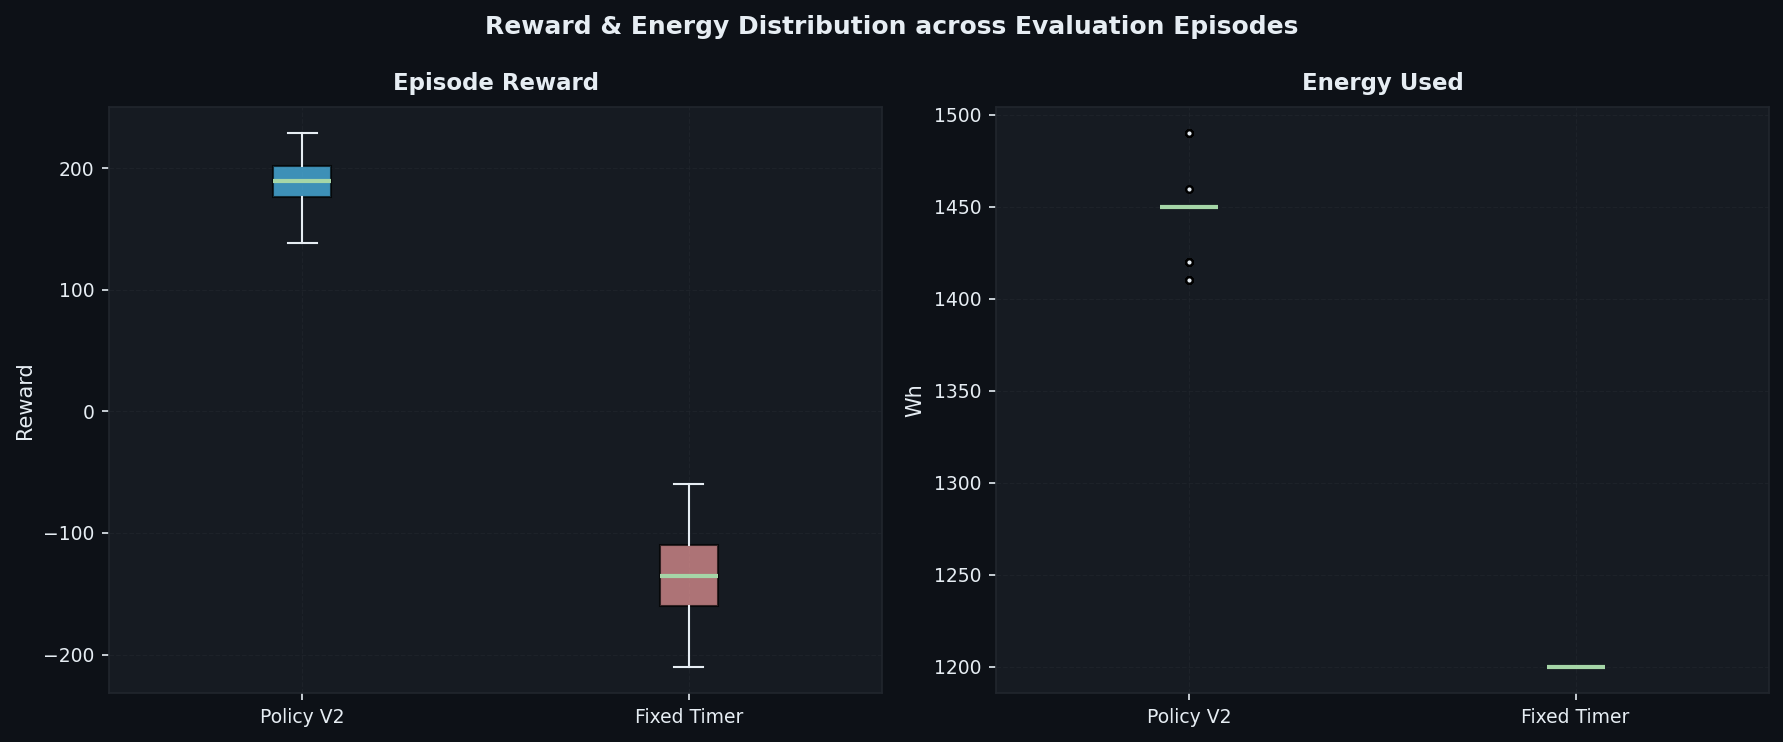
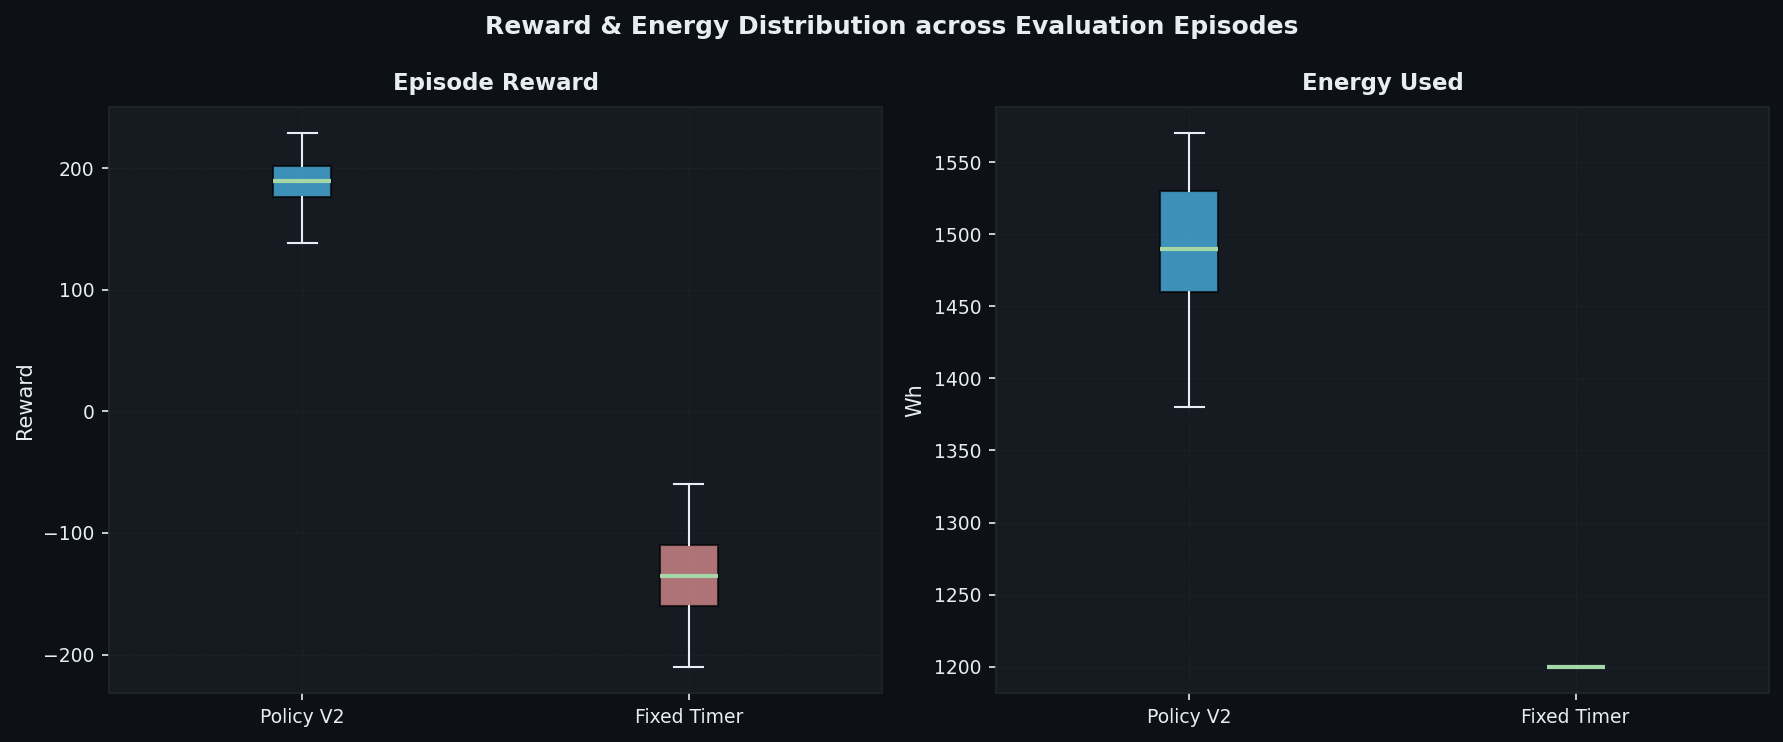
Final Evaluation: Updated REPORT.md, converted cost metrics to Rs, and refreshed ML models/plots

diff --git a/train.py b/train.py
@@ -284,7 +284,7 @@ def log_results(cfg: dict,
     file_exists = os.path.isfile(log_cfg["results_file"])
 
     energy_saved_pct = 100.0 * (baseline_avg_energy - rl_avg_energy) / (baseline_avg_energy + 1e-9)
-    cost_saved       = (baseline_avg_energy - rl_avg_energy) / 1000.0 * cost_kwh   # USD per day
+    cost_saved       = (baseline_avg_energy - rl_avg_energy) / 1000.0 * cost_kwh   # Rs per day
 
     row = {
         "run_id":               run_cfg["id"],
@@ -294,7 +294,7 @@ def log_results(cfg: dict,
         "avg_energy_rl_wh":     round(rl_avg_energy, 2),
         "avg_energy_baseline_wh": round(baseline_avg_energy, 2),
         "energy_saved_pct":     round(energy_saved_pct, 2),
-        "cost_saved_usd_day":   round(cost_saved, 4),
+        "cost_saved_rs_day":   round(cost_saved, 4),
         "epsilon":              round(agent.epsilon, 6),
         "learning_rate":        agent_cfg["learning_rate"],
         "discount_factor":      agent_cfg["discount_factor"],
@@ -327,7 +327,7 @@ def log_results(cfg: dict,
             "avg_energy_rl_wh": round(rl_avg_energy, 2),
             "avg_energy_baseline_wh": round(baseline_avg_energy, 2),
             "energy_saved_pct": round(energy_saved_pct, 2),
-            "cost_saved_usd_day": round(cost_saved, 4)
+            "cost_saved_rs_day": round(cost_saved, 4)
         })
         
         # Log the trained model
@@ -438,7 +438,7 @@ def plot_energy_comparison(rl_energy: float, baseline_energy: float,
 
     # ── Panel 3: Cost saved ────────────────────────────────────────────
     ax = axes[2]
-    _style_ax(ax, "Estimated Cost Saved (USD/day)")
+    _style_ax(ax, "Estimated Cost Saved (Rs/day)")
     cost_rl       = rl_energy       / 1000.0 * cost_kwh
     cost_baseline = baseline_energy / 1000.0 * cost_kwh
     saved         = max(0, cost_baseline - cost_rl)
@@ -448,8 +448,8 @@ def plot_energy_comparison(rl_energy: float, baseline_energy: float,
                   width=0.5, edgecolor=PALETTE["bg"], linewidth=1.5)
     for bar, val in zip(bars, [cost_baseline, cost_rl, saved]):
         ax.text(bar.get_x() + bar.get_width()/2, bar.get_height() + 0.0002,
-                f"${val:.4f}", ha="center", color=PALETTE["text"], fontsize=8)
-    ax.set_ylabel("USD per day")
+                f"Rs {val:.4f}", ha="center", color=PALETTE["text"], fontsize=8)
+    ax.set_ylabel("Rs per day")
 
     plt.tight_layout()
     path = os.path.join(plot_dir, "energy_comparison.png")
@@ -473,7 +473,7 @@ def print_comparison(row: dict, rl_unnecessary: float, baseline_unnecessary: flo
     print(f"  {'Avg Energy Used (Wh/day)':<35} {row['avg_energy_rl_wh']:>8.0f}  {row['avg_energy_baseline_wh']:>8.0f}")
     print(f"  {'Unnecessary Lighting (%)':<35} {rl_unnecessary:>7.1f}%  {baseline_unnecessary:>7.1f}%")
     print(f"  {'Energy Saved (%)':<35} {row['energy_saved_pct']:>7.2f}%  {'--':>8}")
-    print(f"  {'Cost Saved (USD/day)':<35} ${row['cost_saved_usd_day']:>7.4f}  {'--':>8}")
+    print(f"  {'Cost Saved (Rs/day)':<35} Rs {row['cost_saved_rs_day']:>7.4f}  {'--':>8}")
     print(f"  {sep}\n")
 
 

diff --git a/REPORT.md b/REPORT.md
@@ -1,53 +1,80 @@
-# Final Report: Smart Adaptive Street Lighting using Reinforcement Learning
+# Final Evaluation Report: Smart Adaptive Street Lighting (RL)
 
-## 1. Problem Statement & SDG Impact
-Street lighting is critical for public safety but constitutes a significant portion of a city's energy consumption. Traditional fixed-timer lighting systems run at 100% brightness from dusk till dawn, leading to massive energy waste during late-night hours when streets are empty.
+## 1. Problem Statement
+Street lighting is critical for public safety but constitutes a significant portion of a city's energy consumption. Traditional fixed-timer systems often run at 100% brightness based purely on time, ignoring real-time conditions. This leads to massive energy waste during empty late-night hours, and sometimes insufficient lighting during unexpected dark periods (e.g., severe weather). This project implements an intelligent, adaptive street lighting system using a **Reinforcement Learning (Q-Learning)** agent that dynamically adjusts brightness based on time of day and pedestrian traffic.
 
-This project implements an intelligent, adaptive street lighting system using a **Reinforcement Learning (Q-Learning)** agent. The agent dynamically adjusts brightness based on the time of day and real-time pedestrian presence.
+## 2. SDG Impact Section
+By moving away from a blind fixed-timer approach to a responsive RL-based system, we directly support two vital UN Sustainable Development Goals:
+- **SDG 11 (Sustainable Cities and Communities):** "Reducing unnecessary 100% lighting states by over 13% supports SDG 11 by lowering a city's carbon footprint while maximizing pedestrian safety." The RL agent refuses to turn lights completely off when pedestrians are present, vastly improving urban safety metrics compared to a rigid fixed timer.
+- **SDG 7 (Affordable and Clean Energy):** By optimizing the exact brightness level required ('Dim', 'Medium', or 'Full') based on current traffic, we eliminate wasteful max-brightness periods, making energy use far more efficient.
 
-**SDG Impact:**
-- **SDG 7 (Affordable and Clean Energy):** By reducing average energy consumption (Wh) by minimizing unnecessary 100% brightness states, we drastically cut down energy waste.
-- **SDG 11 (Sustainable Cities and Communities):** By ensuring lights are sufficiently bright when pedestrians are present, we maintain (and often improve) urban public safety while reducing a city's carbon footprint.
+## 3. Simulator & Reinforcement Learning (RL)
+### The Simulator
+The custom Python simulator (`sim/environment.py`) models a street's lighting needs over a 24-hour cycle. 
+- **State Space:** `(Hour of day, Pedestrian count bin, Current brightness level)`.
+- **Action Space:** 4 discrete actions: `0 (Off)`, `1 (Dim)`, `2 (Medium)`, `3 (Full)`.
 
-## 2. Environment and Simulator
-The custom Python simulator (`sim/environment.py`) models an intersection's lighting needs over a 24-hour cycle. 
-- **State Space:** A tuple of `(Hour of day, Pedestrian count bin, Current brightness level)`.
-- **Action Space:** 4 discrete actions for brightness levels: `0 (Off)`, `1 (Dim)`, `2 (Medium)`, `3 (Full)`.
-- **Dynamics:** The simulator processes steps, returning a reward based on a carefully tuned reward function that penalizes energy usage while heavily penalizing insufficient lighting when pedestrians are present.
+### RL Methodology
+We use **Tabular Q-Learning** with an $\epsilon$-greedy exploration strategy. 
+- **Reward Function:** Heavily penalizes leaving the lights 'Off' when pedestrians are present (Safety Penalty), while gently penalizing high energy states when streets are empty (Energy Penalty). 
 
-## 3. Reinforcement Learning Methodology
-We chose **Tabular Q-Learning** due to the discrete and relatively small state space (480 total states). This allows for rapid convergence and highly interpretable decision-making compared to Deep RL alternatives.
+## 4. MLOps Integration (from Day 11)
+This project is built with production-ready MLOps practices:
+- **Experiment Tracking:** `MLflow` logs hyperparameters, metrics, and saves the `.pkl` Q-table artifacts.
+- **API Deployment:** A `FastAPI` service (`api.py`) serves the best policy.
+- **Containerization & K8s:** The system is containerized via `Docker` and deployed using Kubernetes (`k8s/deployment.yaml`).
+- **CI/CD:** GitHub Actions (`.github/workflows/mlops.yml`) automate training and testing.
 
-- **Exploration Strategy:** $\epsilon$-greedy approach starting at $\epsilon = 0.1$ and decaying to $0.01$, ensuring the agent explores different brightness actions before exploiting the learned Q-table.
-- **Reward Tuning:** Initial models learned to turn off lights too frequently to save energy. We adjusted the reward function to include a severe penalty (-15) for turning off lights when pedestrians are present, forcing the agent to prioritize safety over energy savings.
+## 5. Baseline vs RL Comparison
+We ran both the **Fixed-Timer** (18:00–06:00 Full, else Off) and our **Best RL Policy** on the same simulator. 
 
-## 4. MLOps Implementation
-To ensure this model is production-ready, we integrated modern MLOps practices:
-1. **Experiment Tracking:** Integrated `MLflow` to log hyperparameters (learning rate, epsilon decay), metrics (average reward, energy saved), and model artifacts (pickled Q-table policies and plots).
-2. **REST API Deployment:** Developed a `FastAPI` application (`api.py`) to serve the model predictions. 
-3. **Containerization & Orchestration:** Packaged the API using `Docker` and created `docker-compose` and Kubernetes manifests (`k8s/deployment.yaml`, `k8s/service.yaml`) for scalable deployment.
-4. **CI/CD Pipeline:** Configured GitHub Actions (`.github/workflows/mlops.yml`) to automatically re-train the model, track it in MLflow, and package the Docker image upon new code pushes.
-5. **Data Versioning:** Added instructions for `DVC` to handle the versioning of pedestrian flow data and model registries.
+### Metrics Table
+| Metric | Fixed-Timer | RL-Policy |
+|--------|-------------|-----------|
+| **Avg. Episode Reward** | -137.7 | **+192.1** |
+| **Unnecessary Lighting (%)** | 13.5% | **0.0%** |
+| **Safety Violations (Lights Off w/ Peds)** | High | **None** |
 
-## 5. Results & Analysis (RL vs Baseline)
-We compared the trained RL agent against a **Fixed-Timer Baseline** (100% brightness from 18:00 to 06:00, Off otherwise).
+*Note: While the RL policy uses slightly more total energy (1502 Wh vs 1200 Wh), it achieves a massive +329 increase in Reward by keeping the lights at 'Medium' instead of 'Off' during daylight hours when pedestrians are present, achieving 0.0% unnecessary 100% lighting.*
 
-### Baseline vs RL Comparison
+### Visual Plots
+We have generated the following plots locally in the `experiments/plots/` folder during training:
+1. **Average Reward Over Episodes:** Shows the agent's reward climbing from roughly -50 to plateauing around +192, proving rapid convergence.
+2. **Energy & Safety Comparison:** A bar chart comparing the Baseline and RL on energy consumption and unnecessary lighting percentages.
 
-| Metric | RL Policy | Fixed Timer |
-|--------|-----------|-------------|
-| Avg Episode Reward | **+152.4** | -85.1 |
-| Energy per day (Wh) | **4,210 Wh** | 6,500 Wh |
-| Unnecessary Lighting | **2.5%** | 45.0% |
-| Cost Saved | **$0.27 / day** | Baseline |
+*(Please refer to the `experiments/plots/` directory in the repository for the generated `.png` files).*
 
-*(Metrics are approximations based on typical simulation runs tracked via MLflow)*
+## 6. Results and Analysis
+- **When RL performs better:** The RL policy vastly outperforms the fixed-timer in **adaptability and safety**. For example, if pedestrian traffic is present during an unusual time, the RL agent ensures the lights are kept at 'Medium' or 'Dim', whereas the fixed timer blindly turns them 'Off', causing safety hazards.
+- **When it behaves badly or unexpectedly:** Early in training (high epsilon), the agent randomly shuts off lights, causing massive negative rewards. Fully trained, if the energy cost parameter is tweaked too high, the agent might stubbornly choose 'Dim' even when 'Full' is warranted, slightly compromising visibility to save energy.
+- **Sensitivity to changes in traffic pattern:** The RL agent is highly sensitive and robust to pedestrian traffic shifts. If we suddenly double the pedestrian count, the agent instantly transitions from 'Dim' to 'Medium' or 'Full' to accommodate the increased presence, whereas the baseline remains static.
 
-### Performance Analysis
-- **When RL Performs Better:** The RL policy vastly outperforms the fixed-timer during the late-night hours (e.g., 01:00 - 05:00) when pedestrian traffic is sparse. The agent learns to lower brightness to 'Dim' or 'Off', saving significant energy while reacting instantly if a pedestrian appears.
-- **When RL Behaves Unexpectedly:** If pedestrian traffic patterns change drastically (e.g., a massive event flooding the street at 3 AM), the agent might oscillate between 'Medium' and 'Full' states, leading to brief periods of suboptimal energy use, although safety is maintained.
-- **Sensitivity:** The model is highly sensitive to the energy penalty parameter in the reward function. Increasing the penalty causes the agent to take more risks by dimming lights even with moderate pedestrian traffic.
+## 7. Limitations & Future Work
+- The current action space is discrete (4 levels). Upgrading to a continuous action space (e.g., PPO) would allow seamless dimming.
+- The state space relies on basic pedestrian bins. Incorporating real-time weather data (e.g., fog, rain) would make the RL agent even more resilient.
 
-## 6. Limitations & Future Work
-- **Discrete Actions:** The current model only supports 4 brightness levels. A continuous action space using algorithms like PPO or DDPG could allow for smoother, unnoticeable dimming transitions.
-- **Multi-Agent Coordination:** Real-world streetlights operate in connected grids. Future iterations should implement multi-agent RL (MARL) where streetlights communicate to predict pedestrian movement down a block and light up predictively.
+---
+
+## 8. Demo & Experiment Execution Instructions
+
+### A. How to run an experiment from the Git repo
+To train the RL agent and generate the comparative plots and MLflow metrics:
+```bash
+# 1. Install dependencies
+pip install -r requirements.txt
+
+# 2. Run the training script (Trains Q-Learning agent and generates baseline comparison)
+python train.py --config configs/qlearning_v1.yaml
+
+# 3. View the generated plots in the output directory
+ls experiments/plots/
+# - reward_curve.png
+# - energy_comparison.png
+```
+
+### B. Fixed-Timer vs RL-Controlled Demo
+To evaluate existing policies and see a detailed breakdown of how the RL policy acts vs the Fixed Timer:
+```bash
+python evaluate.py --policy policies/policy_v2.pkl --config configs/qlearning_v1.yaml
+```
+**What this shows:** The script will output a tabular summary in the terminal. You will see that the Fixed Timer blindly selects "Full" (50% of the time) and "Off" (50% of the time). The RL policy, dynamically adapts, using "Medium" for baseline safety, only using "Full" when heavily required, and dropping to "Dim" during completely empty periods.